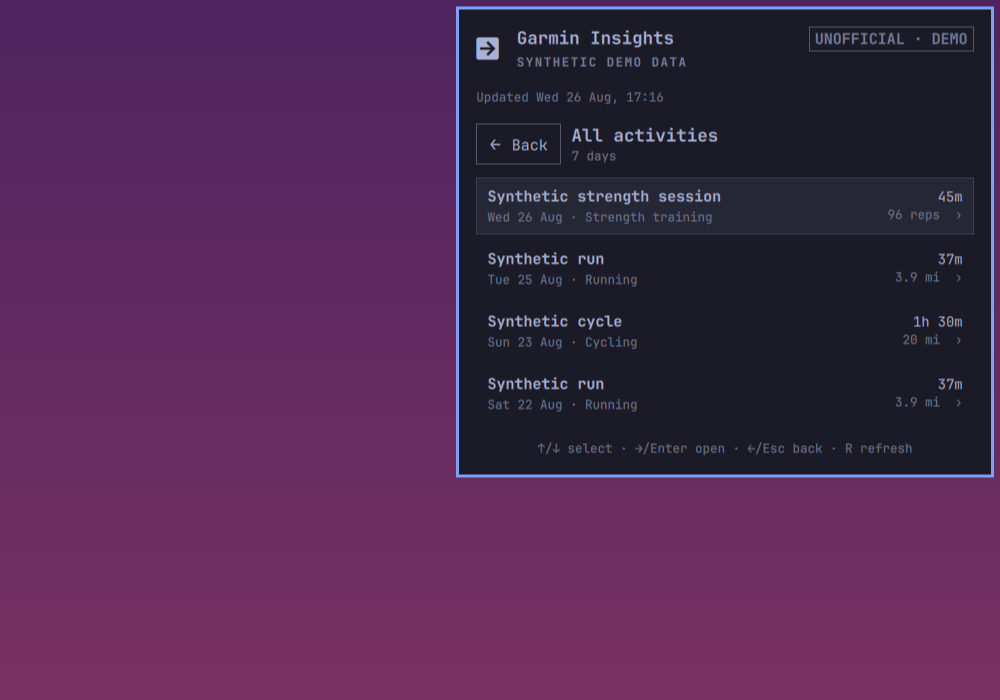
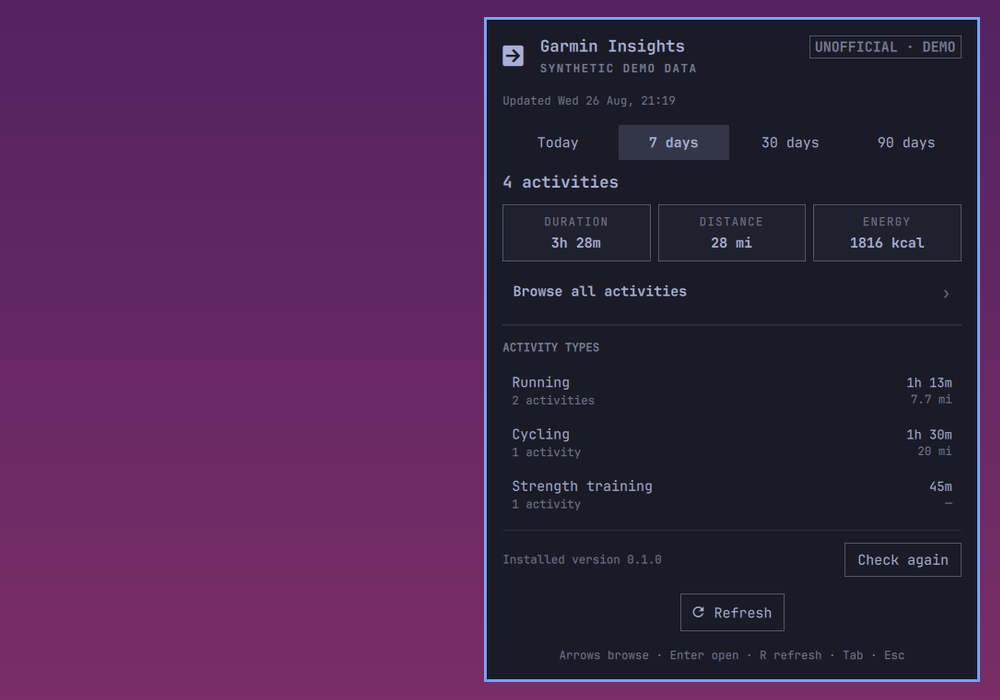
Refresh README screenshots

Changed region(s): [[0.434, 0.0, 1.0, 0.99], [0.868, 0.18, 0.93, 0.21], [0.775, 0.36, 0.806, 0.39]]

diff --git a/README.md b/README.md
@@ -2,9 +2,19 @@
 
 Garmin Insights is an Omarchy Quattro bar plugin that shows recent Garmin Connect activity totals. It covers today and the last 7, 30, and 90 calendar days, with separate rows for each Garmin activity type.
 
-![Garmin Insights panel showing fabricated demo data](preview.png)
+![Garmin Insights summary showing fabricated demo data](preview.png)
+
+Current release: [`v0.1.0`](https://github.com/paulpitchford/omarchy-garmin-insights/releases/tag/v0.1.0)
 
 The plugin ID is `io.github.paulpitchford.garmin-insights`.
+
+## Screenshots
+
+These screenshots use the plugin's built-in synthetic demo. They contain no data from a Garmin account.
+
+| Activity list | Activity detail |
+|---|---|
+| ![Fabricated activity list in Garmin Insights](screenshots/activity-list.png) | ![Fabricated strength activity details in Garmin Insights](screenshots/activity-detail.png) |
 
 ## What it does
 
